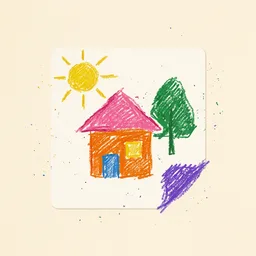
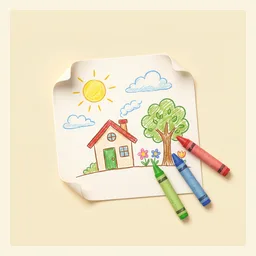
v0.115.0 — 20 слов: первые остановки в новом стиле

Changed region(s): [[0.1562, 0.1875, 0.9375, 0.9062]]

diff --git a/docs/RELEASE-0.115.0.md b/docs/RELEASE-0.115.0.md
@@ -1,0 +1,97 @@
+# 0.115.0 — «Тропа слов»: первые 20 слов в новом стиле
+
+Плоские векторные картинки слов начинают уступать место тёплым
+Pixar-inspired сценам. В 0.114.0 вышли первые десять слов — школа и птицы;
+**0.115.0 добавляет ещё десять** и закрывает первые четыре остановки: «Школа»
+8/8, «В школе» 4/5, «Птицы» 4/5, «Звери» 4/6. Это все двенадцать ключевых
+слов арт-плана плюс восемь слов, которые ребёнок видит на первом экране.
+Версии 0.114.1–0.114.3 были правками урока и картинок не касались.
+Остальные 74 слова 2 класса пока остаются на прежних картинках: волна идёт
+постепенно, без «половины пака в новом стиле».
+
+## 1. Какие слова
+
+**Школа — 8/8:** алфавит, карандаш, картина, класс, пенал, рисунок,
+тетрадь, язык.
+
+**В школе — 4/5:** ученик, ученица, учитель, учительница.
+
+**Птицы — 4/5:** воробей, ворона, петух, снегирь.
+
+**Звери — 4/6:** заяц, медведь, лягушка, корова.
+
+| Слово | Файл | Вес |
+|---|---|---:|
+| карандаш | `public/words/karandash.webp` | 2,4 КБ |
+| ученица | `public/words/uchenitsa.webp` | 3,5 КБ |
+| алфавит | `public/words/alfavit.webp` | 3,8 КБ |
+| ученик | `public/words/uchenik.webp` | 3,9 КБ |
+| картина | `public/words/kartina.webp` | 4,2 КБ |
+| тетрадь | `public/words/tetrad.webp` | 4,4 КБ |
+| язык | `public/words/yazyk.webp` | 4,5 КБ |
+| заяц | `public/words/zayats.webp` | 4,5 КБ |
+| медведь | `public/words/medved.webp` | 4,7 КБ |
+| лягушка | `public/words/lyagushka.webp` | 4,9 КБ |
+| учительница | `public/words/uchitelnitsa.webp` | 5,1 КБ |
+| воробей | `public/words/vorobey.webp` | 5,4 КБ |
+| рисунок | `public/words/risunok.webp` | 5,7 КБ |
+| корова | `public/words/korova.webp` | 5,8 КБ |
+| снегирь | `public/words/snegir.webp` | 6,0 КБ |
+| пенал | `public/words/penal.webp` | 6,3 КБ |
+| учитель | `public/words/uchitel.webp` | 7,0 КБ |
+| петух | `public/words/petuh.webp` | 7,4 КБ |
+| ворона | `public/words/vorona.webp` | 7,7 КБ |
+| класс | `public/words/klass.webp` | 11,5 КБ |
+
+Всего **106 КБ** на двадцать картинок: десять из 0.114.0 и десять новых.
+Пак `public/words` по-прежнему легче, чем до волны: 1 357 КБ против 1 403 КБ
+в 0.113.0. Precache — 593 / 24 549.74 KiB (0.114.3 — 593 / 24 541.56 KiB,
+0.113.0 — 593 / 24 563 KiB).
+
+## 2. Стиль
+
+* 256×256 WebP, фон `#faf4e1`, один предмет или герой по центру, без рамки и
+  водяных знаков;
+* мягкий объём, округлые формы, свет сверху-слева, тёплая палитра — как у
+  фонов и открыток 0.113.0;
+* у «алфавита» — раскрытая книга с буквами А и Б: это единственное слово,
+  где буквы помогают смыслу, а не подсказывают написание;
+* у «языка» — мальчик с облачком звуков без букв; у «рисунка» — детский
+  рисунок дома и солнца; у учителей — чистые доски, чтобы не появлялось
+  случайного текста;
+* у остальных слов нет текста, цифр и вывесок.
+
+Картинки заменяют файлы по тем же именам, поэтому `word.image`, `WordArt`,
+`scheduleWordImages` и офлайн-кэш не меняются. Никаких новых полей в контенте.
+
+## 3. Что осталось
+
+* **В школе:** «фамилия».
+* **Птицы:** «сорока».
+* **Звери:** «собака», «обезьяна».
+* **Остальные 13 остановок:** 70 слов.
+
+Дальше — волна B: оставшиеся 74 слова 2 класса, начиная с «фамилии»,
+«сороки» и двух зверей. После неё у самого проходимого класса будет полный
+новый стиль; только тогда переходим к 5 классу.
+
+## 4. Проверки
+
+* `npm run images:report` — 257 картинок, покрытие 1–4 классов 100 %,
+  5 класса 13 %; файлов 260, 1 357 КБ.
+* `npm run content:check` — 367 слов, 257 картинок, контент в порядке.
+* `npm run build` — 593 entry / 24 549.74 KiB.
+* `npx tsc --noEmit`, `test:content`, `test:smoke`, `test:contrast`,
+  `test:boot`, `test:release` — зелёные.
+
+## 5. Файлы
+
+* `public/words/*.webp` — десять новых замен; всего в новом стиле 20 слов.
+* `images-src/gen/*.png` — исходники (вне Git, как и раньше).
+* `docs/promo/0.115.0/word-cards-preview.webp` — превью двадцати карточек.
+* `docs/proposals/art-plan-pixar.md` — статус волны A2.
+
+## 6. Что дальше
+
+Оставшиеся 74 слова 2 класса: по 10 картинок за волну, с проверкой
+precache после каждой. Затем 5 класс — предметные слова текстового режима.

diff --git a/docs/HANDOFF.md b/docs/HANDOFF.md
@@ -1,14 +1,14 @@
 # HANDOFF — СЛОВО 2.0
 
-**Обновлено:** 2026-11-14. **В этой ветке — 0.114.3**: урок стал
+**Обновлено:** 2026-11-14. **В этой ветке — 0.115.0**: урок стал
 последовательным — после карточки знакомства сразу идёт задание на то же
 слово, остальные задания перемешаны, повторение в конце. В «Собери» и
 «Исправь» картинка-подсказка стала крупной и идёт без паспарту; пустой
 лоток букв после сборки больше не показывается. «Тропа слов» идёт по
 всей программе 1–5 классов (71 остановка, 284 слова), 5 класс — текстовым
 режимом, лабиринт и истории на месте. Сцена получила **пять нарисованных
-биомов** (двор, лес, дом, зима, город); 20 слов и первые остановки в новом
-стиле ждут отдельного PR #212. Арт-план «Pixar-storybook» — в
+биомов** (двор, лес, дом, зима, город); **20 слов** и первые остановки в новом
+стиле уже в этой ветке. Арт-план «Pixar-storybook» — в
 [`proposals/art-plan-pixar.md`](./proposals/art-plan-pixar.md).
 
 **Исторический контекст (0.108.0 в `main`):** PR #202, `d24e597`:

diff --git a/docs/promo/0.115.0/README.md b/docs/promo/0.115.0/README.md
@@ -1,0 +1,9 @@
+# Первые 20 слов в новом стиле (0.115.0)
+
+`word-cards-preview.webp` — двадцать карточек 2 класса: «Школа» (8/8),
+«В школе» (4/5), «Птицы» (4/5), «Звери» (4/6). Полный список — в
+`docs/RELEASE-0.115.0.md`.
+
+Игровые файлы лежат в `public/words/*.webp` (256×256, фон `#faf4e1`).
+Исходные кадры — в `images-src/gen/` (папка вне Git). Превью не входит в
+precache и нужно только для сравнения на телефоне.
